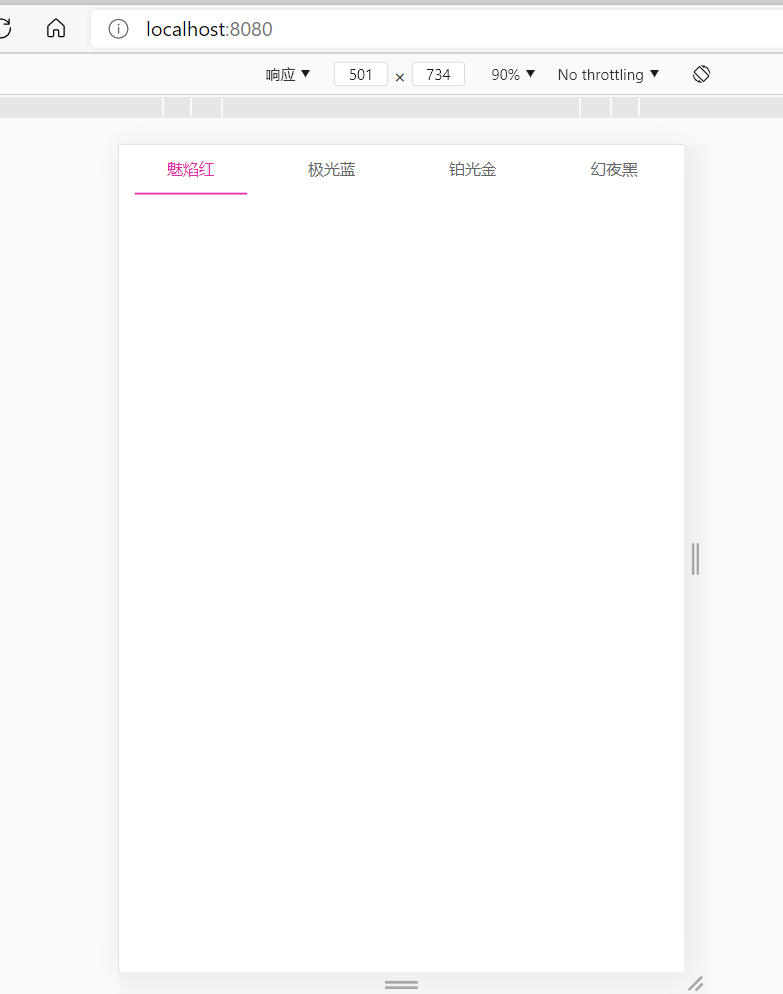
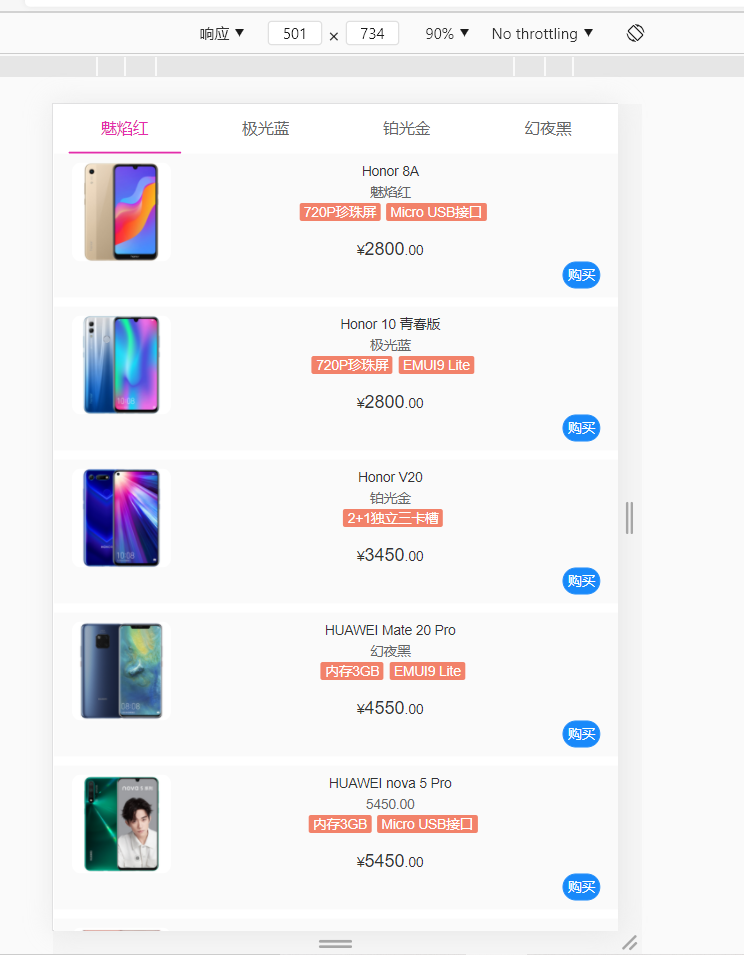
Site updated: 2021-04-07 21:17:42

diff --git a/2021/04/06/Phone-Store-移动端手机商城/index.html b/2021/04/06/Phone-Store-移动端手机商城/index.html
@@ -114,10 +114,19 @@
 <figure class="highlight plain"><table><tr><td class="gutter"><pre><span class="line">1</span><br></pre></td><td class="code"><pre><span class="line">&lt;van-tab v-for&#x3D;&quot;index in categories.length&quot; :title&#x3D;&quot;categories[index-1].name&quot; class&#x3D;&quot;tab&quot;&gt;</span><br></pre></td></tr></table></figure>
 
 <p>利用 <code> v-for</code> 从<code> categories</code> 中遍历元素。</p>
-<p>categories:</p>
-<figure class="highlight js"><table><tr><td class="gutter"><pre><span class="line">1</span><br><span class="line">2</span><br><span class="line">3</span><br><span class="line">4</span><br><span class="line">5</span><br><span class="line">6</span><br><span class="line">7</span><br><span class="line">8</span><br><span class="line">9</span><br><span class="line">10</span><br><span class="line">11</span><br><span class="line">12</span><br><span class="line">13</span><br><span class="line">14</span><br><span class="line">15</span><br><span class="line">16</span><br><span class="line">17</span><br><span class="line">18</span><br><span class="line">19</span><br><span class="line">20</span><br><span class="line">21</span><br><span class="line">22</span><br></pre></td><td class="code"><pre><span class="line"><span class="function"><span class="title">data</span>(<span class="params"></span>)</span> &#123;</span><br><span class="line">    <span class="keyword">return</span> &#123;</span><br><span class="line">      categories: [</span><br><span class="line">        &#123;</span><br><span class="line">          name: <span class="string">&#x27;魅焰红&#x27;</span>,</span><br><span class="line">          type: <span class="number">1</span></span><br><span class="line">        &#125;,</span><br><span class="line">        &#123;</span><br><span class="line">          name: <span class="string">&#x27;极光蓝&#x27;</span>,</span><br><span class="line">          type: <span class="number">2</span></span><br><span class="line">        &#125;,</span><br><span class="line">        &#123;</span><br><span class="line">          name: <span class="string">&#x27;铂光金&#x27;</span>,</span><br><span class="line">          type: <span class="number">3</span></span><br><span class="line">        &#125;,</span><br><span class="line">        &#123;</span><br><span class="line">          name: <span class="string">&#x27;幻夜黑&#x27;</span>,</span><br><span class="line">          type: <span class="number">4</span></span><br><span class="line">        &#125;</span><br><span class="line">      ],</span><br><span class="line">    &#125;</span><br><span class="line">  &#125;</span><br></pre></td></tr></table></figure>
+<p><strong>categories:</strong></p>
+<figure class="highlight js"><table><tr><td class="gutter"><pre><span class="line">1</span><br><span class="line">2</span><br><span class="line">3</span><br><span class="line">4</span><br><span class="line">5</span><br><span class="line">6</span><br><span class="line">7</span><br><span class="line">8</span><br><span class="line">9</span><br><span class="line">10</span><br><span class="line">11</span><br><span class="line">12</span><br><span class="line">13</span><br><span class="line">14</span><br><span class="line">15</span><br><span class="line">16</span><br><span class="line">17</span><br><span class="line">18</span><br><span class="line">19</span><br><span class="line">20</span><br><span class="line">21</span><br><span class="line">22</span><br></pre></td><td class="code"><pre><span class="line"><span class="function"><span class="title">data</span>(<span class="params"></span>)</span> &#123;</span><br><span class="line">    <span class="keyword">return</span> &#123;</span><br><span class="line">        categories: [</span><br><span class="line">            &#123;</span><br><span class="line">                name: <span class="string">&#x27;魅焰红&#x27;</span>,</span><br><span class="line">                type: <span class="number">1</span></span><br><span class="line">            &#125;,</span><br><span class="line">            &#123;</span><br><span class="line">                name: <span class="string">&#x27;极光蓝&#x27;</span>,</span><br><span class="line">                type: <span class="number">2</span></span><br><span class="line">            &#125;,</span><br><span class="line">            &#123;</span><br><span class="line">                name: <span class="string">&#x27;铂光金&#x27;</span>,</span><br><span class="line">                type: <span class="number">3</span></span><br><span class="line">            &#125;,</span><br><span class="line">            &#123;</span><br><span class="line">                name: <span class="string">&#x27;幻夜黑&#x27;</span>,</span><br><span class="line">                type: <span class="number">4</span></span><br><span class="line">            &#125;</span><br><span class="line">        ],</span><br><span class="line">    &#125;</span><br><span class="line">&#125;</span><br></pre></td></tr></table></figure>
 
-<p><strong>预览图：</strong></p>
+<blockquote>
+<p>遍历商品</p>
+</blockquote>
+<figure class="highlight plain"><table><tr><td class="gutter"><pre><span class="line">1</span><br><span class="line">2</span><br><span class="line">3</span><br><span class="line">4</span><br><span class="line">5</span><br><span class="line">6</span><br><span class="line">7</span><br><span class="line">8</span><br><span class="line">9</span><br><span class="line">10</span><br><span class="line">11</span><br><span class="line">12</span><br><span class="line">13</span><br><span class="line">14</span><br><span class="line">15</span><br><span class="line">16</span><br><span class="line">17</span><br></pre></td><td class="code"><pre><span class="line">&lt;van-tab v-for&#x3D;&quot;index in categories.length&quot; :title&#x3D;&quot;categories[index-1].name&quot; class&#x3D;&quot;tab&quot;&gt;</span><br><span class="line"></span><br><span class="line">    &lt;van-card v-for&#x3D;&quot;(item,index) in phones&quot;</span><br><span class="line">              :price&#x3D;&quot;item.price&quot;</span><br><span class="line">              :desc&#x3D;&quot;item.desc&quot;</span><br><span class="line">              :title&#x3D;&quot;item.title&quot;</span><br><span class="line">              :thumb&#x3D;&quot;item.thumb&quot;</span><br><span class="line">              &gt;</span><br><span class="line">        &lt;template #tags&gt;</span><br><span class="line">&lt;van-tag v-for&#x3D;&quot;tag in item.tag&quot; color&#x3D;&quot;#f2826a&quot; style&#x3D;&quot;margin-left: 5px;&quot;&gt;&#123;&#123;tag.name&#125;&#125;&lt;&#x2F;van-tag&gt;</span><br><span class="line">        &lt;&#x2F;template&gt;</span><br><span class="line">        &lt;template #footer&gt;</span><br><span class="line">&lt;van-button round type&#x3D;&quot;info&quot; size&#x3D;&quot;mini&quot; @click&#x3D;&quot;buy(index)&quot;&gt;购买&lt;&#x2F;van-button&gt;</span><br><span class="line">        &lt;&#x2F;template&gt;</span><br><span class="line">    &lt;&#x2F;van-card&gt;</span><br><span class="line"></span><br><span class="line">&lt;&#x2F;van-tab&gt;</span><br></pre></td></tr></table></figure>
+
+<p><strong>phones:</strong></p>
+<p>    静态测试数据</p>
+<figure class="highlight js"><table><tr><td class="gutter"><pre><span class="line">1</span><br><span class="line">2</span><br><span class="line">3</span><br><span class="line">4</span><br><span class="line">5</span><br><span class="line">6</span><br><span class="line">7</span><br><span class="line">8</span><br><span class="line">9</span><br><span class="line">10</span><br><span class="line">11</span><br><span class="line">12</span><br><span class="line">13</span><br><span class="line">14</span><br><span class="line">15</span><br><span class="line">16</span><br><span class="line">17</span><br><span class="line">18</span><br><span class="line">19</span><br><span class="line">20</span><br><span class="line">21</span><br><span class="line">22</span><br><span class="line">23</span><br><span class="line">24</span><br><span class="line">25</span><br><span class="line">26</span><br><span class="line">27</span><br><span class="line">28</span><br><span class="line">29</span><br><span class="line">30</span><br><span class="line">31</span><br><span class="line">32</span><br><span class="line">33</span><br><span class="line">34</span><br><span class="line">35</span><br><span class="line">36</span><br><span class="line">37</span><br><span class="line">38</span><br><span class="line">39</span><br><span class="line">40</span><br><span class="line">41</span><br><span class="line">42</span><br><span class="line">43</span><br><span class="line">44</span><br><span class="line">45</span><br><span class="line">46</span><br><span class="line">47</span><br><span class="line">48</span><br><span class="line">49</span><br><span class="line">50</span><br><span class="line">51</span><br><span class="line">52</span><br><span class="line">53</span><br><span class="line">54</span><br><span class="line">55</span><br><span class="line">56</span><br><span class="line">57</span><br><span class="line">58</span><br><span class="line">59</span><br><span class="line">60</span><br><span class="line">61</span><br><span class="line">62</span><br><span class="line">63</span><br><span class="line">64</span><br><span class="line">65</span><br><span class="line">66</span><br><span class="line">67</span><br><span class="line">68</span><br><span class="line">69</span><br><span class="line">70</span><br><span class="line">71</span><br><span class="line">72</span><br><span class="line">73</span><br><span class="line">74</span><br><span class="line">75</span><br><span class="line">76</span><br><span class="line">77</span><br><span class="line">78</span><br><span class="line">79</span><br><span class="line">80</span><br><span class="line">81</span><br><span class="line">82</span><br><span class="line">83</span><br><span class="line">84</span><br><span class="line">85</span><br><span class="line">86</span><br><span class="line">87</span><br><span class="line">88</span><br><span class="line">89</span><br></pre></td><td class="code"><pre><span class="line">phones: [</span><br><span class="line">    &#123;</span><br><span class="line">        id:<span class="number">1</span>,</span><br><span class="line">        title: <span class="string">&quot;Honor 8A&quot;</span>,</span><br><span class="line">        price: <span class="string">&quot;2800.00&quot;</span>,</span><br><span class="line">        desc: <span class="string">&quot;魅焰红&quot;</span>,</span><br><span class="line">        tag: [</span><br><span class="line">            &#123;</span><br><span class="line">                name: <span class="string">&quot;720P珍珠屏&quot;</span></span><br><span class="line">            &#125;,</span><br><span class="line">            &#123;</span><br><span class="line">                name: <span class="string">&quot;Micro USB接口&quot;</span></span><br><span class="line">            &#125;,</span><br><span class="line">        ],</span><br><span class="line">        thumb: <span class="string">&quot;../static/e84a2e03-7f19-41d2-98a5-a5c16b7e252d.jpg&quot;</span></span><br><span class="line">    &#125;,</span><br><span class="line">    &#123;</span><br><span class="line">        id:<span class="number">2</span>,</span><br><span class="line">        title: <span class="string">&quot;Honor 10 青春版&quot;</span>,</span><br><span class="line">        price: <span class="string">&quot;2800.00&quot;</span>,</span><br><span class="line">        desc: <span class="string">&quot;极光蓝&quot;</span>,</span><br><span class="line">        tag: [</span><br><span class="line">            &#123;</span><br><span class="line">                name: <span class="string">&quot;720P珍珠屏&quot;</span></span><br><span class="line">            &#125;,</span><br><span class="line">            &#123;</span><br><span class="line">                name: <span class="string">&quot;EMUI9 Lite&quot;</span></span><br><span class="line">            &#125;,</span><br><span class="line">        ],</span><br><span class="line">        thumb: <span class="string">&quot;../static/8f0bd0d0-a11e-4185-927e-04b54ff4a1bd.jpg&quot;</span></span><br><span class="line">    &#125;,</span><br><span class="line">    &#123;</span><br><span class="line">        id:<span class="number">3</span>,</span><br><span class="line">        title: <span class="string">&quot;Honor V20&quot;</span>,</span><br><span class="line">        price: <span class="string">&quot;3450.00&quot;</span>,</span><br><span class="line">        desc: <span class="string">&quot;铂光金&quot;</span>,</span><br><span class="line">        tag: [</span><br><span class="line">            &#123;</span><br><span class="line">                name: <span class="string">&quot;2+1独立三卡槽&quot;</span></span><br><span class="line">            &#125;</span><br><span class="line">        ],</span><br><span class="line">        thumb: <span class="string">&quot;../static/fd7fee3c-a35c-477b-b007-9fda6e9c589a.jpg&quot;</span></span><br><span class="line">    &#125;,</span><br><span class="line">    &#123;</span><br><span class="line">        id:<span class="number">4</span>,</span><br><span class="line">        title: <span class="string">&quot;HUAWEI Mate 20 Pro&quot;</span>,</span><br><span class="line">        price: <span class="string">&quot;4550.00&quot;</span>,</span><br><span class="line">        desc: <span class="string">&quot;幻夜黑&quot;</span>,</span><br><span class="line">        tag: [</span><br><span class="line">            &#123;</span><br><span class="line">                name: <span class="string">&quot;内存3GB&quot;</span></span><br><span class="line">            &#125;,</span><br><span class="line">            &#123;</span><br><span class="line">                name: <span class="string">&quot;EMUI9 Lite&quot;</span></span><br><span class="line">            &#125;,</span><br><span class="line">        ],</span><br><span class="line">        thumb: <span class="string">&quot;../static/cb819ad9-ec6f-4123-a4e9-aa629e2f8224.jpg&quot;</span></span><br><span class="line">    &#125;,</span><br><span class="line">    &#123;</span><br><span class="line">        id:<span class="number">5</span>,</span><br><span class="line">        title: <span class="string">&quot;HUAWEI nova 5 Pro&quot;</span>,</span><br><span class="line">        price: <span class="string">&quot;5450.00&quot;</span>,</span><br><span class="line">        desc: <span class="string">&quot;5450.00&quot;</span>,</span><br><span class="line">        tag: [</span><br><span class="line">            &#123;</span><br><span class="line">                name: <span class="string">&quot;内存3GB&quot;</span></span><br><span class="line">            &#125;,</span><br><span class="line">            &#123;</span><br><span class="line">                name: <span class="string">&quot;Micro USB接口&quot;</span></span><br><span class="line">            &#125;,</span><br><span class="line">        ],</span><br><span class="line">        thumb: <span class="string">&quot;../static/8a0f5be0-3c78-4f23-b58b-dc2a92f1f95a.jpg&quot;</span></span><br><span class="line">    &#125;,</span><br><span class="line">    &#123;</span><br><span class="line">        id:<span class="number">1</span>,</span><br><span class="line">        title: <span class="string">&quot;HUAWEI P30&quot;</span>,</span><br><span class="line">        price: <span class="string">&quot;8700.00&quot;</span>,</span><br><span class="line">        desc: <span class="string">&quot;极光蓝&quot;</span>,</span><br><span class="line">        tag: [</span><br><span class="line">            &#123;</span><br><span class="line">                name: <span class="string">&quot;720P珍珠屏&quot;</span></span><br><span class="line">            &#125;,</span><br><span class="line">            &#123;</span><br><span class="line">                name: <span class="string">&quot;内存3GB&quot;</span></span><br><span class="line">            &#125;,</span><br><span class="line">        ],</span><br><span class="line">        thumb: <span class="string">&quot;../static/6dcad185-315f-40f0-87f2-52910f49c8b7.jpg&quot;</span></span><br><span class="line">    &#125;</span><br><span class="line">]</span><br></pre></td></tr></table></figure>
+
+<p><strong>静态数据测试预览图：</strong></p>
 <p><img src="/2021/04/06/Phone-Store-%E7%A7%BB%E5%8A%A8%E7%AB%AF%E6%89%8B%E6%9C%BA%E5%95%86%E5%9F%8E/%E6%BC%94%E7%A4%BA1.png" alt="演示1"></p>
 
       
